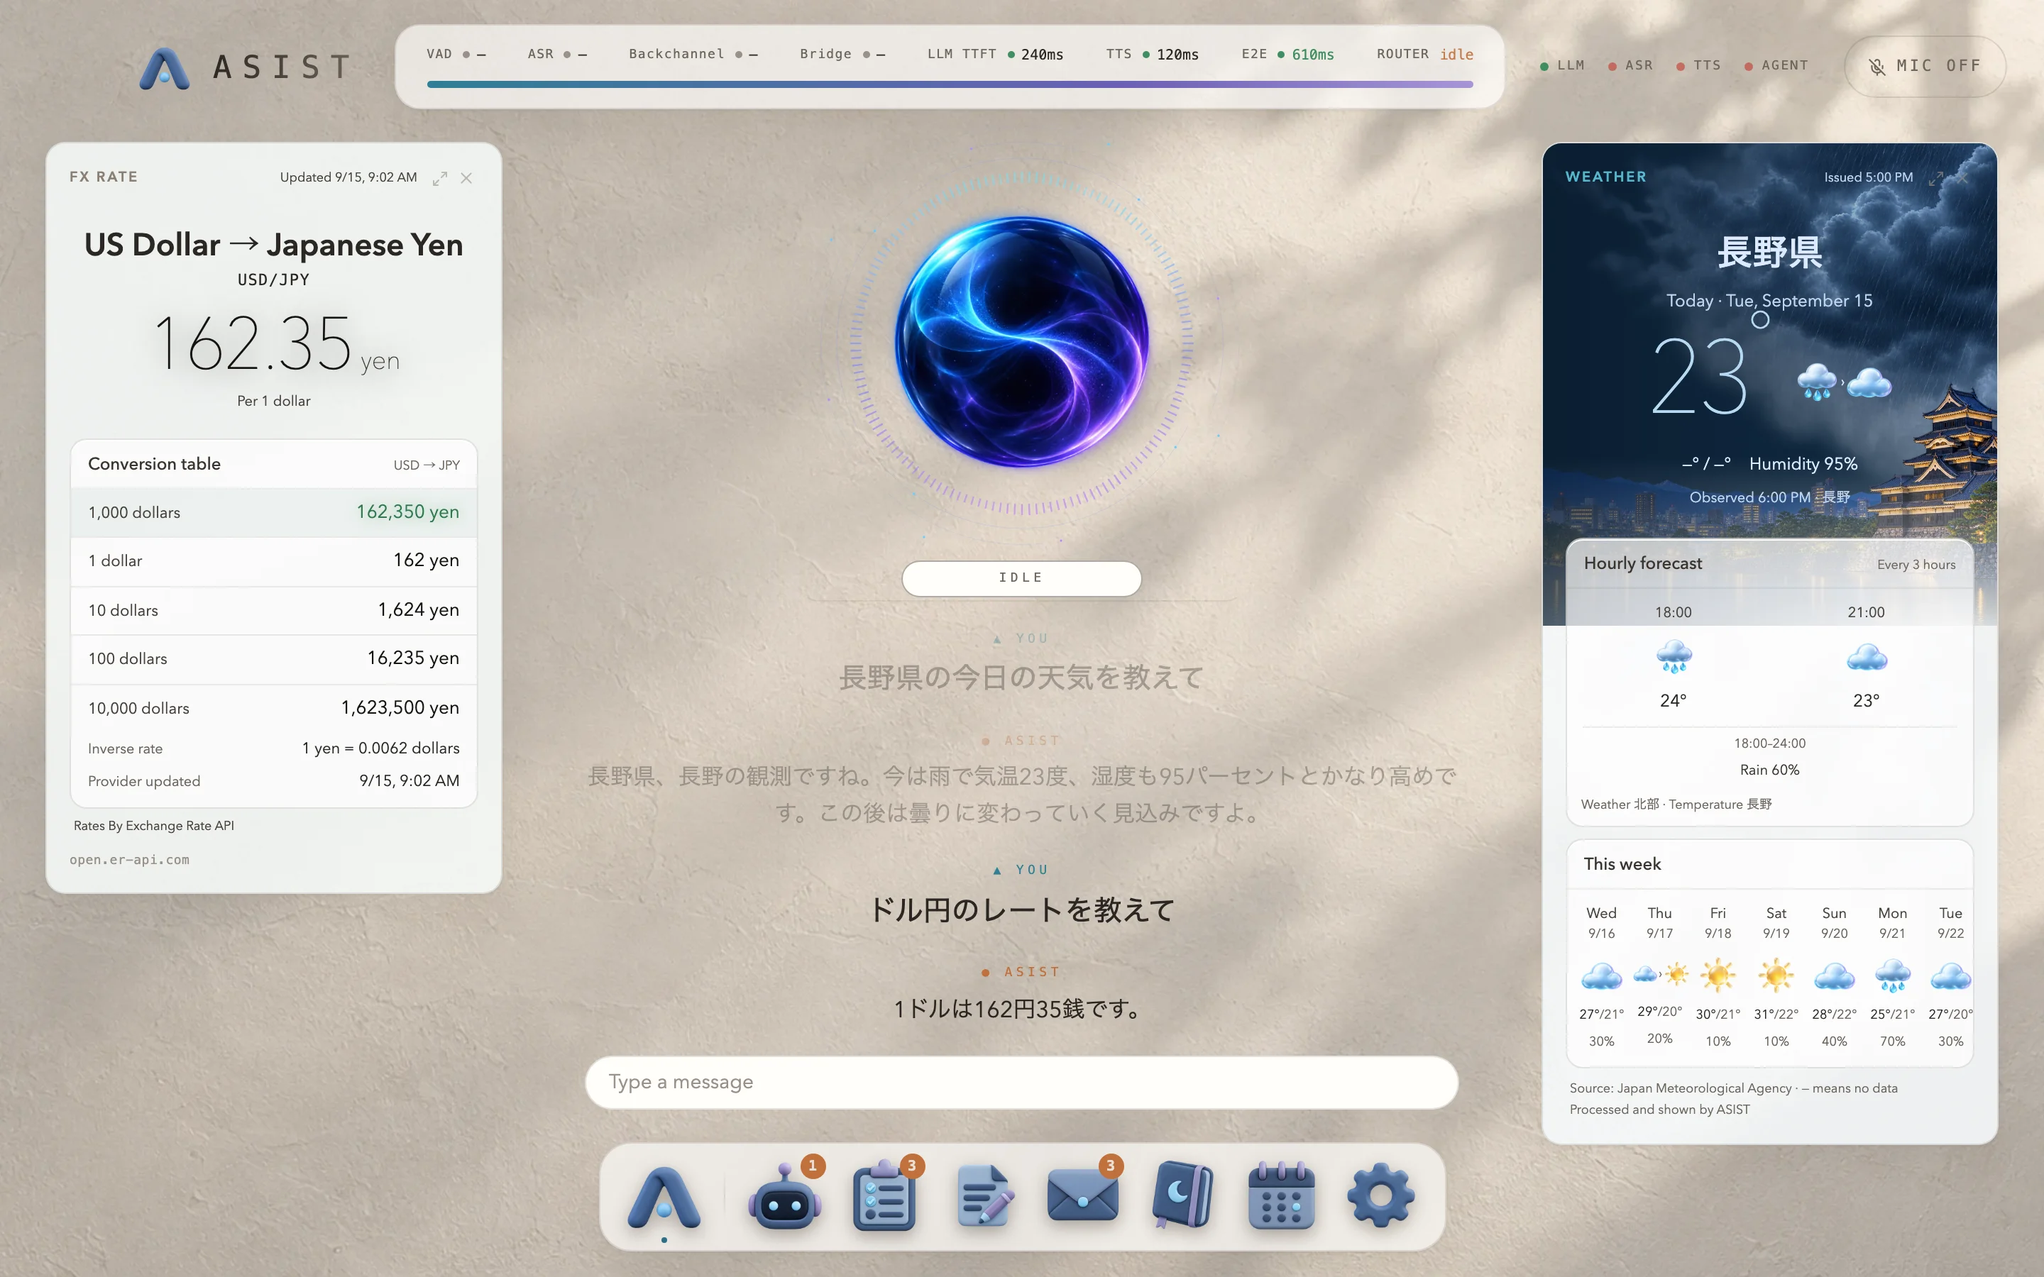
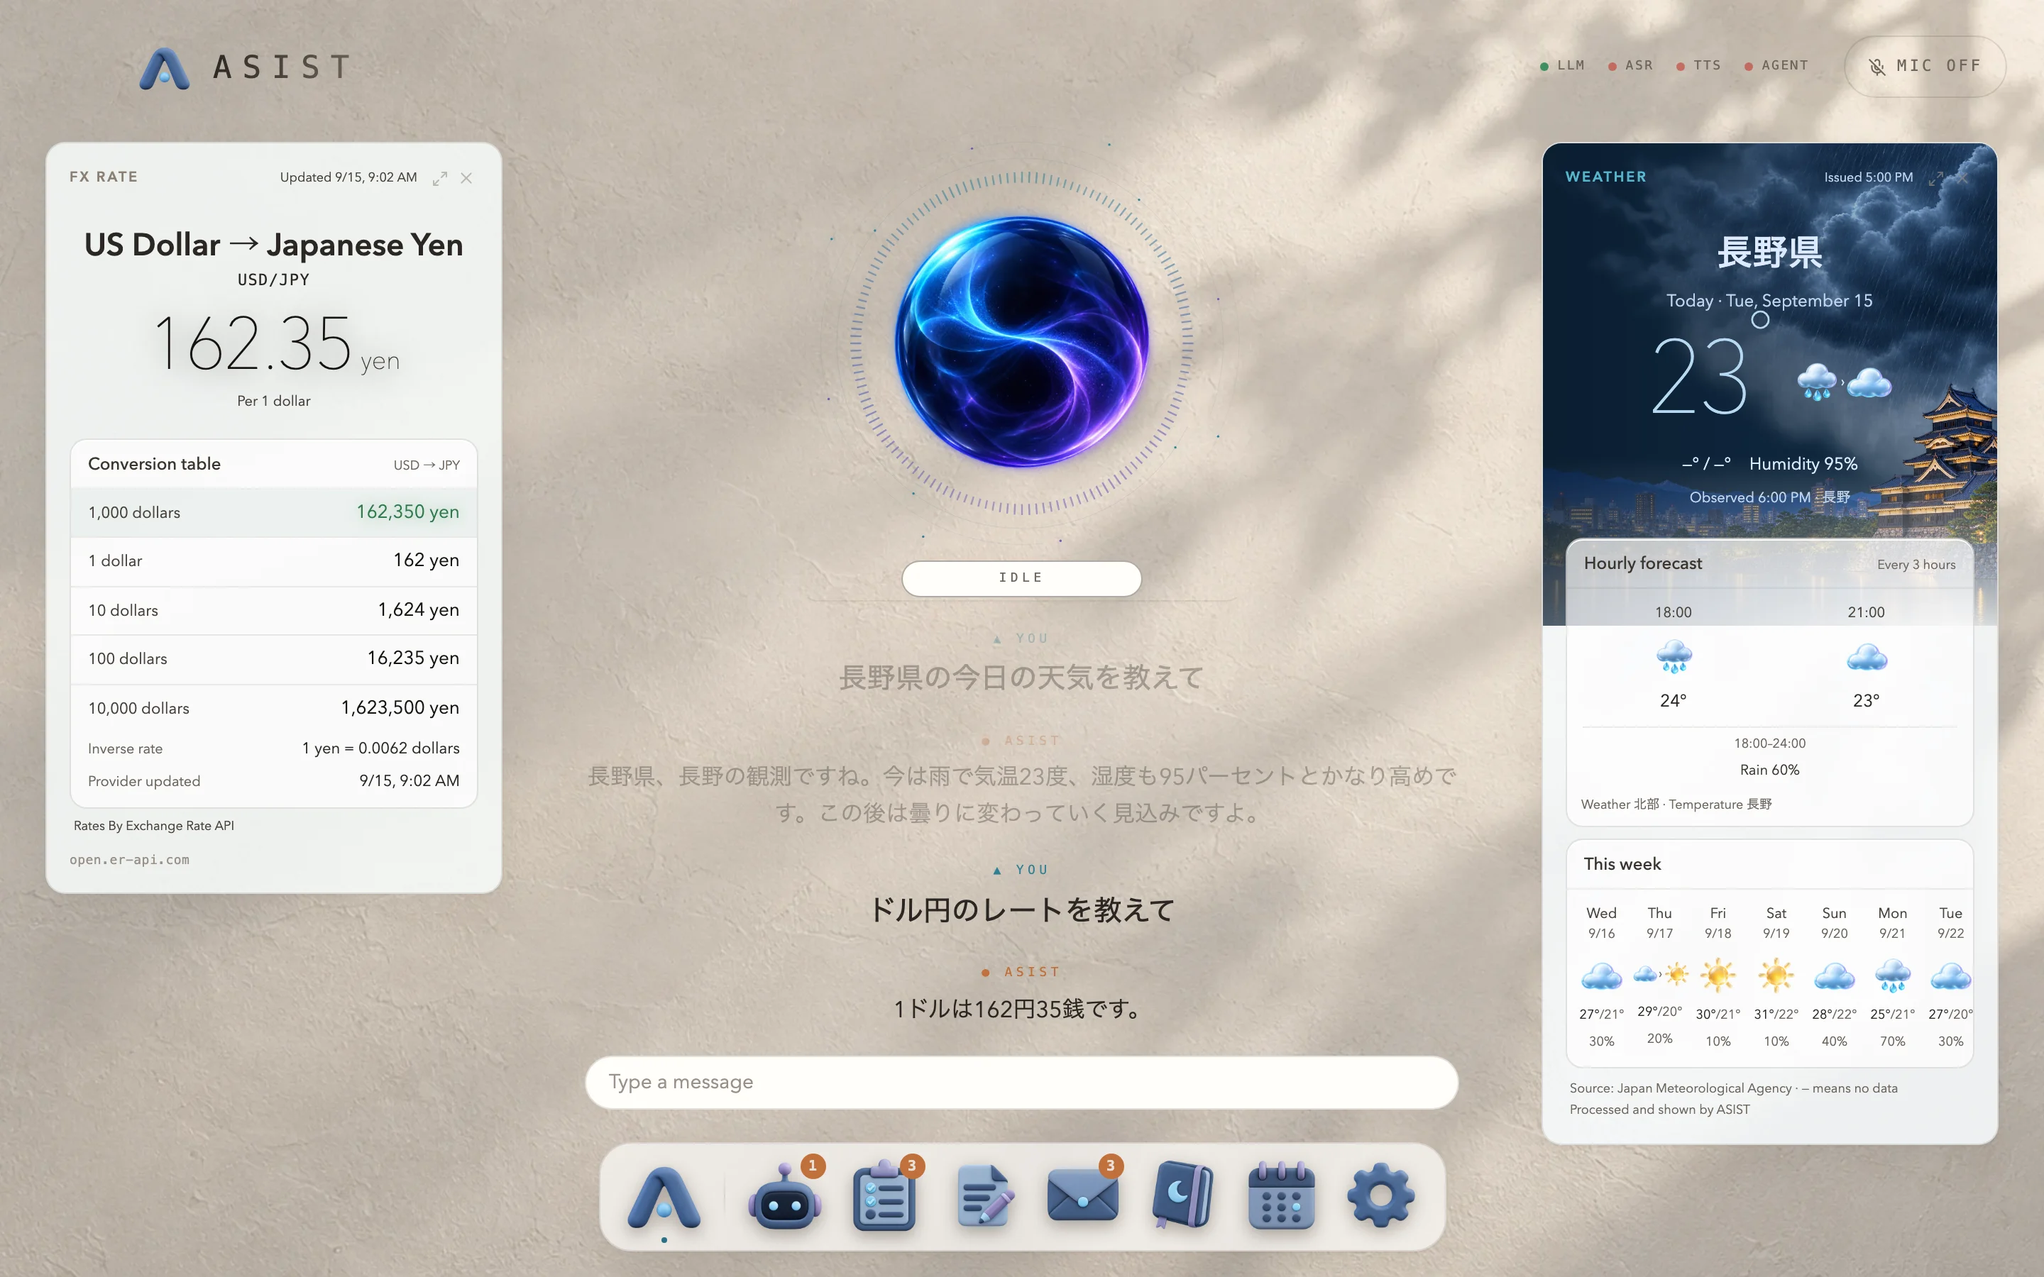
Hide the processing times at the top of the screen unless turned on under Appearance
The bar at the top that shows how long each stage of the last reply took
(VAD, ASR, aizuchi, bridge, LLM TTFT, TTS, E2E and the router, or the
connection, response, session and cost of a live engine) matters to someone
tuning the conversation rather than to someone using it. It is now hidden
unless "Show at the top of the screen" is turned on in the new "Processing
times" group of the Appearance page.

The setting is stored as showHud in settings.json, which moves to version 7.
The upgrade from version 6 hides the bar for everyone, including those who
saw it until now, and a sample of version 7 joins the stored fixtures. When
the bar is hidden its wrapper stays in the top bar, since it is what keeps
the status dots and the microphone on the right.

The documentation of Appearance, the usage page and the voice engine page
now say where the times are turned on, and the screenshots that show the top
bar were taken again without it.

Changed region(s): [[0.1875, 0.0, 0.75, 0.0933]]

diff --git a/src/shared/i18n/messages/settings-appearance.ts b/src/shared/i18n/messages/settings-appearance.ts
@@ -15,17 +15,17 @@ export const settingsAppearance = defineMessages({
     'es-ES': 'Apariencia'
   },
   lead: {
-    'ja-JP': '画面全体の色、背景、カードの見出しを選びます。',
-    'en-US': 'Choose the colors, the background and the card headings of the whole screen.',
-    'fr-FR': "Choisissez les couleurs, l'arrière-plan et les titres des cartes de tout l'écran.",
-    'de-DE': 'Wählen Sie Farben, Hintergrund und Kartenüberschriften für den ganzen Bildschirm.',
-    'hi-IN': 'पूरी स्क्रीन के रंग, बैकग्राउंड और कार्ड के शीर्षक चुनें।',
-    'id-ID': 'Pilih warna, latar belakang, dan judul kartu untuk seluruh layar.',
-    'it-IT': 'Scegli i colori, lo sfondo e i titoli delle schede di tutto lo schermo.',
-    'ko-KR': '화면 전체의 색, 배경, 카드 제목을 고릅니다.',
-    'pt-BR': 'Escolha as cores, o fundo e os títulos dos cartões de toda a tela.',
-    'es-419': 'Elige los colores, el fondo y los títulos de las tarjetas de toda la pantalla.',
-    'es-ES': 'Elige los colores, el fondo y los títulos de las tarjetas de toda la pantalla.'
+    'ja-JP': '画面全体の色、背景、カードの見出しと、上部に処理時間を出すかどうかを選びます。',
+    'en-US': 'Choose the colors, the background and the card headings of the whole screen, and whether processing times appear at the top.',
+    'fr-FR': "Choisissez les couleurs, l'arrière-plan et les titres des cartes de tout l'écran, et si les temps de traitement s'affichent en haut.",
+    'de-DE': 'Wählen Sie Farben, Hintergrund und Kartenüberschriften für den ganzen Bildschirm und ob oben die Verarbeitungszeiten erscheinen.',
+    'hi-IN': 'पूरी स्क्रीन के रंग, बैकग्राउंड और कार्ड के शीर्षक चुनें, और यह भी कि ऊपर प्रोसेसिंग का समय दिखे या नहीं।',
+    'id-ID': 'Pilih warna, latar belakang, dan judul kartu untuk seluruh layar, serta apakah waktu proses tampil di bagian atas.',
+    'it-IT': 'Scegli i colori, lo sfondo e i titoli delle schede di tutto lo schermo, e se in alto compaiono i tempi di elaborazione.',
+    'ko-KR': '화면 전체의 색, 배경, 카드 제목과, 위쪽에 처리 시간을 표시할지를 고릅니다.',
+    'pt-BR': 'Escolha as cores, o fundo e os títulos dos cartões de toda a tela, e se os tempos de processamento aparecem no topo.',
+    'es-419': 'Elige los colores, el fondo y los títulos de las tarjetas de toda la pantalla, y si arriba se muestran los tiempos de procesamiento.',
+    'es-ES': 'Elige los colores, el fondo y los títulos de las tarjetas de toda la pantalla, y si arriba se muestran los tiempos de procesamiento.'
   },
   theme: {
     title: {
@@ -167,6 +167,47 @@ export const settingsAppearance = defineMessages({
         'es-419': 'Una sala oscura de concreto con un rayo de luz',
         'es-ES': 'Una sala oscura de hormigón con un rayo de luz'
       }
+    }
+  },
+  hud: {
+    title: {
+      'ja-JP': '処理時間',
+      'en-US': 'Processing times',
+      'fr-FR': 'Temps de traitement',
+      'de-DE': 'Verarbeitungszeiten',
+      'hi-IN': 'प्रोसेसिंग का समय',
+      'id-ID': 'Waktu proses',
+      'it-IT': 'Tempi di elaborazione',
+      'ko-KR': '처리 시간',
+      'pt-BR': 'Tempos de processamento',
+      'es-419': 'Tiempos de procesamiento',
+      'es-ES': 'Tiempos de procesamiento'
+    },
+    show: {
+      'ja-JP': '画面の上に表示する',
+      'en-US': 'Show at the top of the screen',
+      'fr-FR': "Afficher en haut de l'écran",
+      'de-DE': 'Oben auf dem Bildschirm anzeigen',
+      'hi-IN': 'स्क्रीन के ऊपर दिखाएँ',
+      'id-ID': 'Tampilkan di bagian atas layar',
+      'it-IT': 'Mostra in cima allo schermo',
+      'ko-KR': '화면 위쪽에 표시하기',
+      'pt-BR': 'Mostrar no topo da tela',
+      'es-419': 'Mostrar en la parte superior de la pantalla',
+      'es-ES': 'Mostrar en la parte superior de la pantalla'
+    },
+    hint: {
+      'ja-JP': '直前の返事で、各段階にかかった時間を表示します。',
+      'en-US': 'Shows how long each stage of the last reply took.',
+      'fr-FR': 'Affiche la durée de chaque étape de la dernière réponse.',
+      'de-DE': 'Zeigt, wie lange jeder Schritt der letzten Antwort gedauert hat.',
+      'hi-IN': 'पिछले जवाब के हर चरण में लगा समय दिखाता है।',
+      'id-ID': 'Menampilkan waktu setiap tahap pada balasan terakhir.',
+      'it-IT': "Mostra quanto è durata ogni fase dell'ultima risposta.",
+      'ko-KR': '직전 답변의 단계별 소요 시간을 표시합니다.',
+      'pt-BR': 'Mostra quanto tempo levou cada etapa da última resposta.',
+      'es-419': 'Muestra cuánto tardó cada etapa de la última respuesta.',
+      'es-ES': 'Muestra cuánto ha tardado cada etapa de la última respuesta.'
     }
   }
 })

diff --git a/src/shared/settings.ts b/src/shared/settings.ts
@@ -38,6 +38,8 @@ const fields = {
   uiLocale: z.enum(UI_LOCALES),
   /** The look of the whole interface: its colours, surfaces, background picture and the type of card headings. */
   theme: z.enum(THEMES),
+  /** Whether the top of the screen shows how long each stage of the latest turn took. */
+  showHud: z.boolean(),
   /** The language the user and the assistant speak: prompts, speech recognition and speech follow it. */
   conversationLocale: z.enum(CONVERSATION_LOCALES),
   /** The ISO 3166-1 alpha-2 country whose weather, news, currency and formats apply. */
@@ -157,7 +159,7 @@ const V4_ASR_MODELS: Record<string, AsrModel> = {
 
 export const SETTINGS_FORMAT: StoredFormat<AppSettings> = {
   name: 'settings.json',
-  version: 6,
+  version: 7,
   upgrades: {
     // Version 2 adds the theme. Everything written before it was drawn in future.
     1: (content) => ({ ...(content as Record<string, unknown>), theme: 'future' }),
@@ -186,7 +188,11 @@ export const SETTINGS_FORMAT: StoredFormat<AppSettings> = {
     5: (content) => ({
       ...(content as Record<string, unknown>),
       calendar: { enabled: false, readCalendarIds: [], writeCalendarId: null }
-    })
+    }),
+    // Version 7 lets the times of a turn at the top of the screen be turned off. They matter to someone
+    // tuning the conversation rather than to someone using it, so they are hidden for everyone, including
+    // those who saw them until now.
+    6: (content) => ({ ...(content as Record<string, unknown>), showHud: false })
   },
   parse: parseAppSettings,
   serialize: (settings) => ({ ...settings })

diff --git a/src/renderer/src/ui/settings/pages/AppearancePage.tsx b/src/renderer/src/ui/settings/pages/AppearancePage.tsx
@@ -1,10 +1,11 @@
 import type { CSSProperties } from 'react'
 import { THEMES, type ThemeName } from '@shared/themes'
 import type { SettingsContext } from '../context'
-import { Group, Page } from '../primitives'
+import { Group, Page, Row } from '../primitives'
+import { HoloSwitch } from '@/components/ui/switch'
 import { useT } from '@/i18n'
 
-/** The appearance page: the theme of the whole interface, chosen from the pictures of the themes. */
+/** The appearance page: the theme of the whole interface, chosen from the pictures of the themes, and the processing times at the top. */
 export function AppearancePage({ ctx }: { ctx: SettingsContext }): React.JSX.Element {
   const { settings, set } = ctx
   const t = useT()
@@ -34,6 +35,11 @@ export function AppearancePage({ ctx }: { ctx: SettingsContext }): React.JSX.Ele
             </button>
           ))}
         </div>
+      </Group>
+      <Group title={t('settingsAppearance.hud.title')}>
+        <Row label={t('settingsAppearance.hud.show')} hint={t('settingsAppearance.hud.hint')}>
+          <HoloSwitch checked={settings.showHud} onCheckedChange={(v) => set({ showHud: v })} />
+        </Row>
       </Group>
     </Page>
   )

diff --git a/src/renderer/src/ui/TopBar.tsx b/src/renderer/src/ui/TopBar.tsx
@@ -23,6 +23,7 @@ export function TopBar(): React.JSX.Element {
   const micProgress = useTurnStore((s) => s.micProgress)
   const closeApp = useViewStore((s) => s.closeApp)
   const engine = useSettingsStore((s) => s.settings?.voiceEngine ?? 'cascade')
+  const showHud = useSettingsStore((s) => s.settings?.showHud === true)
   const liveConnection = useLiveStore((s) => s.connection)
 
   return (
@@ -32,9 +33,8 @@ export function TopBar(): React.JSX.Element {
         <span>ASIST</span>
       </button>
 
-      <div className="hud-wrap">
-        <Hud />
-      </div>
+      {/* The wrap stays when the bar is hidden, because it is what pushes the status dots and the microphone to the right. */}
+      <div className="hud-wrap">{showHud && <Hud />}</div>
 
       {status && (
         <div className="status-dots">

diff --git a/src/renderer/src/demo/api.ts b/src/renderer/src/demo/api.ts
@@ -114,6 +114,7 @@ const settings: AppSettings = {
   safetyNoticeVersion: 1,
   uiLocale: demoLocale,
   theme: THEMES.find((theme) => theme === requestedTheme) ?? DEFAULT_THEME,
+  showHud: false,
   // The conversation stays Japanese, which the sample data is written in; the region follows the interface so
   // that dates and numbers read as they do for someone who uses that language.
   conversationLocale: 'ja-JP',

diff --git a/src/main/services/settings.ts b/src/main/services/settings.ts
@@ -27,6 +27,7 @@ function defaultSettings(): AppSettings {
     safetyNoticeVersion: 0,
     uiLocale: locale,
     theme: DEFAULT_THEME,
+    showHud: false,
     conversationLocale: locale,
     region: defaultRegion(locale),
     // Choosing a provider during the first setup replaces these with that provider's defaults from

diff --git a/website/src/content/docs/en/docs/settings/voice-engine.md b/website/src/content/docs/en/docs/settings/voice-engine.md
@@ -16,7 +16,7 @@ When you choose GPT-Live or Gemini Live, the microphone audio goes straight to t
 | GPT-Live | GPT-Live handles the timing of the exchange and leaves the content to the conversation model. GPT-Live reads the conversation model's text aloud in its own voice. | $0.05 per minute that the session is open | OpenAI |
 | Gemini Live | Gemini decides by itself and calls ASIST's tools. ASIST runs the tools, so the confirmation screen for writes still appears. The conversation model is not used. | $0.005 per minute of audio input, $0.018 per minute of output | Google |
 
-A session opens when you start talking, and closes once the conversation has stopped for the time set in "Close the session after" (90 seconds by default). You aren't charged while it is closed. When you speak again, ASIST holds the last 3 seconds of audio while it reopens the session, so the start of what you say isn't lost. The HUD at the top shows the connection, the time to respond, the minutes in the session and the estimated cost. Turning the microphone off closes the session.
+A session opens when you start talking, and closes once the conversation has stopped for the time set in "Close the session after" (90 seconds by default). You aren't charged while it is closed. When you speak again, ASIST holds the last 3 seconds of audio while it reopens the session, so the start of what you say isn't lost. With "Show at the top of the screen" turned on in [Appearance](/en/docs/settings/appearance/), the top of the screen shows the connection, the time to respond, the minutes in the session and the estimated cost. Turning the microphone off closes the session.
 
 Choose a voice on the "Voice" page from the ones the provider offers, and use "Play sample" to hear a bundled sample. Playing a sample doesn't use the API.
 

diff --git a/website/src/content/docs/en/docs/settings/appearance.md b/website/src/content/docs/en/docs/settings/appearance.md
@@ -1,11 +1,17 @@
 ---
 title: Appearance
-description: Choose the theme of the whole screen.
+description: Choose the theme of the whole screen, and whether processing times appear at the top.
 sidebar:
   order: 2
 ---
 
-Under "Appearance", choose one of four themes for the whole screen. The theme changes as soon as you choose it, along with the colors, the background and the card headings.
+Under "Appearance", choose the theme of the whole screen, and whether processing times appear at the top of it.
+
+![The Appearance page in the settings](/screens/en/settings-appearance.webp)
+
+## Theme
+
+Choose one of four themes. The theme changes as soon as you choose it, along with the colors, the background and the card headings.
 
 | Theme | Look |
 |---|---|
@@ -16,4 +22,8 @@ Under "Appearance", choose one of four themes for the whole screen. The theme ch
 
 The pictures on the weather and clock cards stay night scenes in every theme.
 
-![The Appearance page in the settings](/screens/en/settings-appearance.webp)
+## Processing times
+
+Turn on "Show at the top of the screen" under "Processing times", and the top of the screen shows how long each stage of the last reply took. It is off by default.
+
+You can see how long speech recognition, generating the reply and reading it aloud took, and the time from the end of what you said to the first sound of the reply (E2E). When the voice engine is GPT-Live or Gemini Live, it shows the state of the connection, the time to respond, the minutes in the session and the estimated cost instead.

diff --git a/website/src/content/docs/docs/settings/appearance.md b/website/src/content/docs/docs/settings/appearance.md
@@ -1,11 +1,17 @@
 ---
 title: 見た目
-description: 画面全体のテーマを選ぶ。
+description: 画面全体のテーマと、処理時間を画面の上に出すかどうかを選ぶ。
 sidebar:
   order: 2
 ---
 
-「見た目」で、画面全体のテーマを 4 つから選びます。選ぶとすぐに切り替わり、色、背景、カードの見出しが変わります。
+「見た目」で、画面全体のテーマを選び、画面の上に処理時間を出すかどうかを決めます。
+
+![設定の「見た目」の画面](/screens/ja/settings-appearance.webp)
+
+## テーマ
+
+テーマは 4 つから選びます。選ぶとすぐに切り替わり、色、背景、カードの見出しが変わります。
 
 | テーマ | 見た目 |
 |---|---|
@@ -16,4 +22,8 @@ sidebar:
 
 天気と時計のカードの絵は、どのテーマでも夜の景色のままです。
 
-![設定の「見た目」の画面](/screens/ja/settings-appearance.webp)
+## 処理時間
+
+「処理時間」の「画面の上に表示する」をオンにすると、直前の返事で各段階にかかった時間が画面の上に出ます。最初はオフです。
+
+音声認識、返事の生成、読み上げにかかった時間と、話し終えてから返事の声が出るまでの時間(E2E)が分かります。声のエンジンが GPT-Live か Gemini Live のときは、接続の状態、応答までの時間、セッションの分数、料金の見積もりが出ます。

diff --git a/website/src/content/docs/en/docs/usage/index.md b/website/src/content/docs/en/docs/usage/index.md
@@ -30,4 +30,4 @@ You can also open a mini app from the conversation by asking, for example, "Open
 
 When you close the window, ASIST stays in the menu bar on a Mac, and in the notification area of the taskbar on Windows. You can bring it back from any app with ⌥Space on a Mac, and with Alt+Shift+Space on Windows. It also uses the system's notifications to tell you when a timer ends, a job finishes or new mail arrives.
 
-The HUD at the top shows how long speech recognition, generating the reply and reading it aloud took.
+To see how long speech recognition, generating the reply and reading it aloud took, turn on "Show at the top of the screen" in [Appearance](/en/docs/settings/appearance/) in the settings, and the times appear at the top of the screen.

diff --git a/website/src/content/docs/docs/usage/index.md b/website/src/content/docs/docs/usage/index.md
@@ -30,4 +30,4 @@ sidebar:
 
 ウィンドウを閉じても、Mac ではメニューバーに、Windows ではタスクバーの通知領域に残ります。ほかのアプリを使っているときも、Mac では ⌥Space で、Windows では Alt+Shift+Space で呼び出せます。タイマーの終了、ジョブの完了、新着のメールは、OS の通知でも知らせます。
 
-音声認識、返事の生成、読み上げにかかった時間は、上の HUD で見られます。
+音声認識、返事の生成、読み上げにかかった時間は、設定の[見た目](/docs/settings/appearance/)で「画面の上に表示する」をオンにすると、画面の上で見られます。
